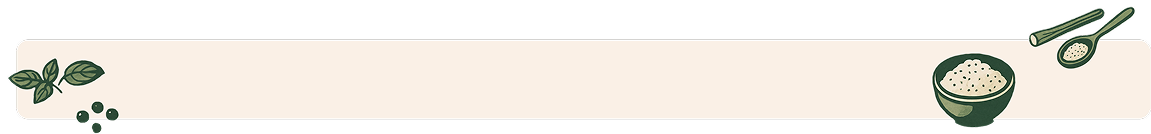
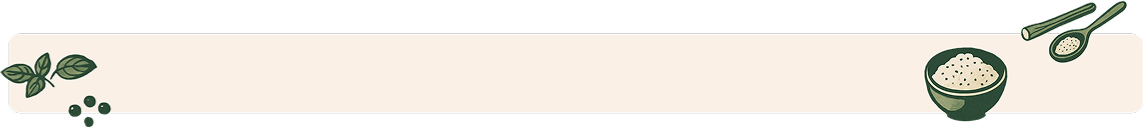
Last chances

Changed region(s): [[0.0, 0.0, 1.0, 1.0], [0.7962, 0.3543, 0.888, 0.874], [0.8268, 0.9213, 0.8574, 0.9685]]

diff --git a/src/app/components/it-recipes/it-recipes.scss b/src/app/components/it-recipes/it-recipes.scss
@@ -4,6 +4,7 @@ main {
     display: flex;
     justify-content: center;
     flex-direction: column;
+    min-height: 100vh;
     color: $font-green;
     font-family: 'Quicksand';
 }
@@ -24,18 +25,18 @@ section {
 }
 
 .title-container {
-    height: clamp(90px,16vw, 150px);
+    height: clamp(10px, 16vh, 200px);
     width: 100%;
     @include flex-center;
    
     background-repeat: no-repeat;
     background-position: center;
-    background-size: clamp(320px, 100%, 1440px) clamp(87px,16vw, 150px);
+    background-size: clamp(300px, 100%, 1440px) auto;
     margin: 0 20px 50px 20px;
 
     h1 {
         color: black;
-        font-size: clamp(24px, 5vw, 40px);
+        font-size: clamp(20px, 4vw, 40px);
         font-family: 'Quicksand';
         color: #10310B;
     }
@@ -47,7 +48,9 @@ section {
 
 .bg-German {
   background-image: url('../../../../public/assets/img/cookbook/it-recipes/German.png');
-   padding-bottom: 10px;
+   h1{
+ padding-bottom: 5px !important;
+  }
 }
 
 .bg-Japanese {
@@ -57,7 +60,9 @@ section {
 
 .bg-Gourmet {
   background-image: url('../../../../public/assets/img/cookbook/it-recipes/Gourmet.png');
-  padding-top: 15px;
+  h1{
+ padding-top: clamp(8px, 2vw, 20px) !important;
+  }
 }
 
 .bg-Indian {
@@ -134,9 +139,9 @@ section {
 }
 
 footer {
-    position: absolute;
+    position: static;
     bottom: 20px;
-    margin-top: 50px;
+   margin-top: auto;
     width: 100%;
 
     div {
@@ -252,5 +257,17 @@ footer {
 
     .title-container {
         margin-top: 40px;
+    }
+}
+
+
+@media (max-width: 400px) {
+    section{
+        padding: 0 5px;
+    }
+
+    .title-container {
+        margin: 40px 20px 20px 20px;
+         height: 50px;
     }
 }

diff --git a/src/app/components/recipe-ditail/recipe-ditail.scss b/src/app/components/recipe-ditail/recipe-ditail.scss
@@ -43,16 +43,18 @@ article {
 }
 
 .content-divider {
-    background-size: 100% clamp(70px, 12vw, 148px);
+     background-size: contain;
     background-repeat: no-repeat;
     background-position: center;
     width: 100%;
-    height: clamp(70px, 12vw, 148px);
+   width: 100%;
+    height: clamp(90px, 15vw, 148px);
+
     @include flex-center;
 
     h2{
         font-weight: 600;
-        font-size: clamp(24px, 3vw, 32px);
+        font-size: clamp(18px, 4vw, 32px);
         color: #1E5515;
     }
 }
@@ -63,6 +65,8 @@ article {
 
 .bg-Directions {
     background-image: url(../../../../public/assets/img/view/Directions.png);
+    max-width: 1150.75px;
+    max-height: 134px;
 }
 
 .heat-line-container {
@@ -265,7 +269,7 @@ footer {
 }
 
 .padding-center{
-    padding-top: 20px;
+    padding-top: 10px;
 }
 
 @media (max-width: 1000px) {
@@ -349,4 +353,8 @@ footer {
     article {
         width: 95%;
     }
+
+    .padding-center{
+    padding-top: 5px;
+}
 }

diff --git a/src/app/components/start-screen/start-screen.scss b/src/app/components/start-screen/start-screen.scss
@@ -24,13 +24,14 @@ main {
         }
 
         .meal-3 {
+            height: 430px !important;
             position: absolute;
-            top: 0px
+            top: 0px;
         }
 
         .meal-2 {
             position: absolute;
-            top: 270px
+            top: 230px;
         }
 
         .meal-1 {
@@ -58,13 +59,13 @@ main {
             top: 200px;
 
             h2 {
-                font-size: clamp(24px, 3vw, 48px);
+                font-size: clamp(18px, 5vw, 48px);
                 font-weight: 600;
                 font-family: 'Quicksand';
             }
 
             h1 {
-                font-size: clamp(64px, 7vw, 104px);
+                font-size: clamp(55px, 9vw, 104px);
                 font-weight: 700;
                 font-family: 'Ubuntu';
             }

diff --git a/src/app/components/top-recipes/top-recipes.html b/src/app/components/top-recipes/top-recipes.html
@@ -1,8 +1,8 @@
 <article>
     <div *ngFor="let recipe of topRecipes()" class="top-recipes">
-        <div class="top-recipes__header" [routerLink]="['/View',recipe.category ,recipe.name]">
+        <div class="top-recipes__header">
             <h2><img src="assets/img/preferences/schedule.png">Cooking Time:{{recipe.cookingTime}}min</h2>
-            <h1>{{ recipe.name }}</h1>
+            <h1 [routerLink]="['/View',recipe.category ,recipe.name]">{{ recipe.name }}</h1>
         </div>
         <p><img src="assets/img/view/favorite.png">{{ recipe.likes}}</p>
     </div>

diff --git a/src/app/components/top-recipes/top-recipes.scss b/src/app/components/top-recipes/top-recipes.scss
@@ -40,6 +40,10 @@ article {
         h1 {
             font-weight: 500;
             font-size: 24px;
+            &:hover {
+                text-decoration: underline;
+                cursor: pointer;
+            }
         }
 
         h2 {

diff --git a/src/app/components/results/results.scss b/src/app/components/results/results.scss
@@ -5,7 +5,8 @@ main {
     justify-content: center;
     background-color: $bg-green;
     width: 100%;
-    height: 100vh;
+     min-height: 100vh;
+    height: auto;
     color: white;
     font-family: 'Quicksand', sans-serif;
 }

diff --git a/src/app/components/generate-recipe/generate-recipe.html b/src/app/components/generate-recipe/generate-recipe.html
@@ -22,7 +22,7 @@
             <div class="add-container">
                 <h3 class="text">Serving size</h3>
                 <div>
-                    <input #quantity type="number" class="no-spinner" placeholder="100">
+                    <input #quantity type="number" class="no-spinner" value="100">
                     <app-drop-down (unitSelected)="selectUnit = $event"></app-drop-down>
                     <img (click)="addIngredient()" src="assets/img/+.png">
                 </div>

diff --git a/src/app/components/generate-recipe/generate-recipe.ts b/src/app/components/generate-recipe/generate-recipe.ts
@@ -71,7 +71,7 @@ export class GenrateRecipe {
 
   /** Clears the ingredient and quantity input elements. */
   clearInput(): void {
-    this.quantity.nativeElement.value = '';
+    this.quantity.nativeElement.value = '100';
     this.ingred.nativeElement.value = '';
   }
 

diff --git a/src/app/components/top-recipes/top-recipes.ts b/src/app/components/top-recipes/top-recipes.ts
@@ -24,7 +24,7 @@ export class TopRecipes {
         ? Object.entries(data).map(([id, recipe]: any) => ({
           id,
           ...recipe
-        }))
+        })).filter(recipe => (recipe.likes || 0) > 0)
         : [];
 
       recipes.sort((a, b) => (b.likes || 0) - (a.likes || 0));

diff --git a/src/app/shared/n8n-api.ts b/src/app/shared/n8n-api.ts
@@ -12,7 +12,7 @@ export class N8nApi {
   dataLoaded = signal(false);
   errorIngredients = signal(false);
   errorQuota = signal(false);
-  url: string = 'https://ricci27aut.app.n8n.cloud/webhook-test/recipe';
+  url: string = 'https://ricci27aut.app.n8n.cloud/webhook/recipe';
 
   /**
    * Sends the current recipe request to the backend.

diff --git a/src/index.html b/src/index.html
@@ -4,7 +4,7 @@
 <head>
   <meta charset="utf-8">
   <title>CodeACuisine</title>
-  <base href="/"><!-- code-a-cuisine/ -->
+  <base href="/code-a-cuisine/">
   <meta name="viewport" content="width=device-width, initial-scale=1">
   <link rel="icon" type="image/png" href="favicon.png">
 </head>